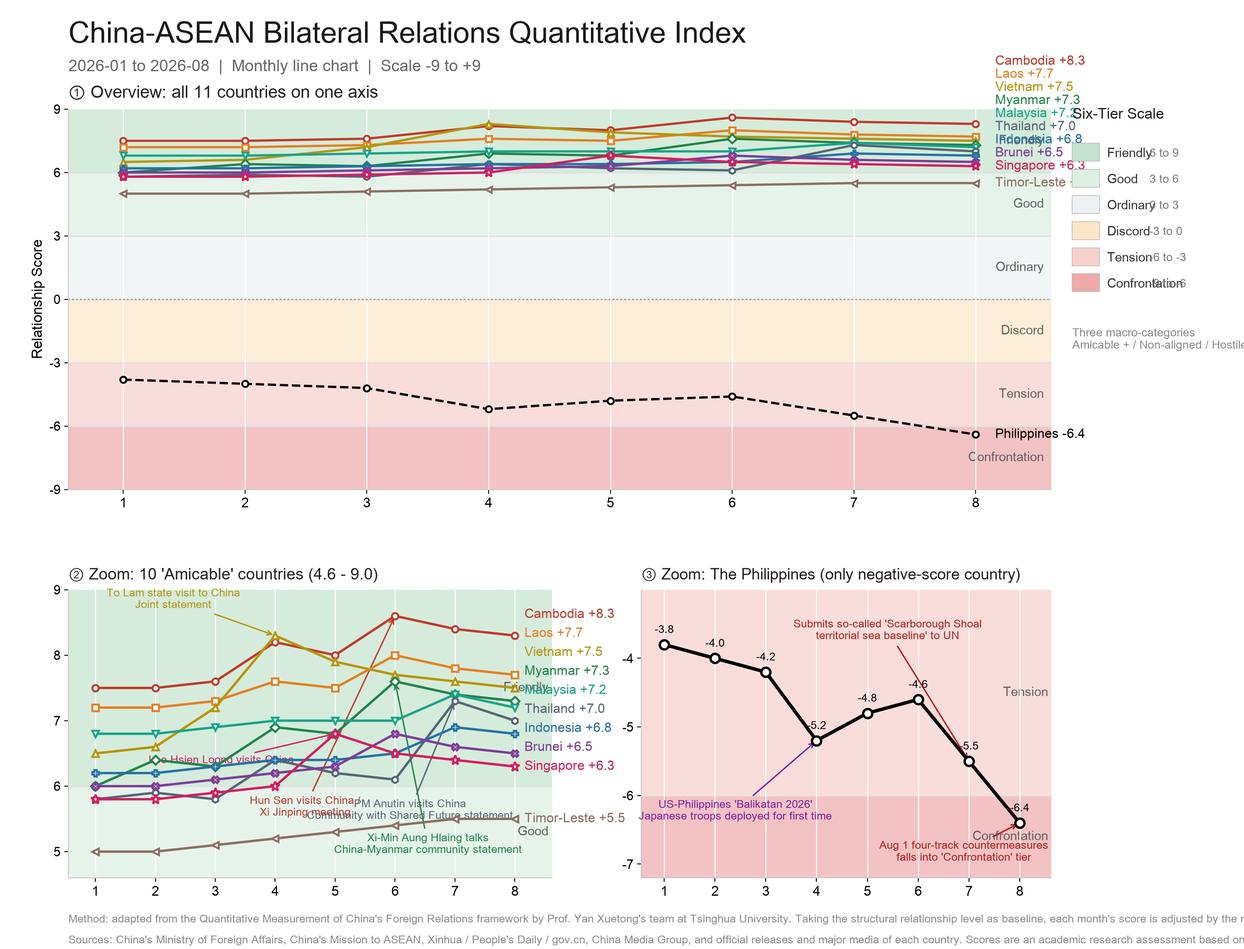
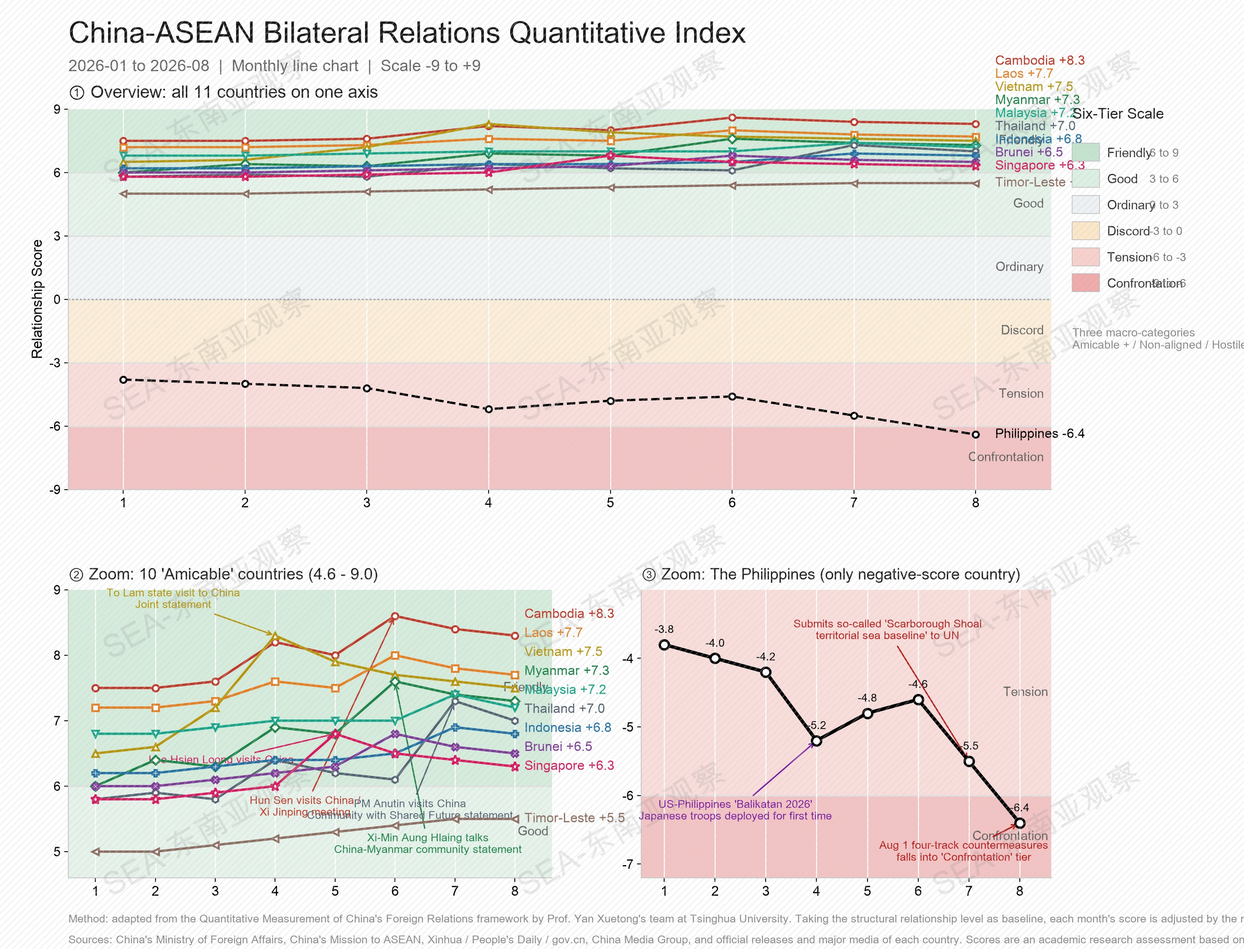
中国—东盟指数图增加斜线纹理水印 SEA-东南亚观察（中英同步）
- plot_china_asean.py / plot_china_asean_en.py 新增 watermark(fig)：
  1) 整图覆盖 facecolor=none + hatch='////' 斜线纹理（edge alpha 0.28）
  2) 3×4 网格平铺旋转 30° 文字 'SEA-东南亚观察'（font 28 bold, alpha 0.18）
- 主图与简版图均调用水印；中、英脚本及输出同步更新

diff --git a/scripts/plot_china_asean.py b/scripts/plot_china_asean.py
@@ -38,6 +38,23 @@ def F(size, weight="normal"):
     fp.set_size(size); fp.set_weight(weight)
     return fp
 
+# ---------- 整图斜线纹理 + 平铺文字水印 ----------
+def watermark(fig):
+    """覆盖整图的斜线纹理水印，中英均显示 SEA-东南亚观察"""
+    txt = "SEA-东南亚观察"
+    fig.patches.append(Rectangle(
+        (0, 0), 1, 1, transform=fig.transFigure,
+        facecolor="none", edgecolor=(0.82, 0.82, 0.82, 0.28),
+        linewidth=0, hatch="////", zorder=100))
+    cols, rows = 3, 4
+    for i in range(rows):
+        for j in range(cols):
+            x = (j + 0.5) / cols
+            y = (i + 0.5) / rows
+            fig.text(x, y, txt, rotation=30, ha="center", va="center",
+                     fontproperties=F(28, "bold"),
+                     color=(0.55, 0.55, 0.55, 0.18), zorder=101)
+
 # ---------- 数据（支持 argv[1] 指定滚动数据集路径）----------
 import sys
 _JSON = sys.argv[1] if len(sys.argv) > 1 else os.path.join(BASE, "data", "china_asean_scores_2026.json")
@@ -217,6 +234,7 @@ fig.text(.055, .006,
          "资料来源：中国外交部、中国常驻东盟使团、新华社／人民日报／中国政府网、中央广播电视总台，及各国官方通稿与主流媒体。分值为基于公开信息的学术性研究判断，非官方数据。",
          fontproperties=F(9.6), color="#8a8a8a")
 
+watermark(fig)
 p1 = os.path.join(OUT, f"china-asean-relations-{_last}.jpg")
 fig.savefig(p1, format="jpg", dpi=200, facecolor="white", pil_kwargs={"quality": 94})
 print("saved", p1)
@@ -237,6 +255,8 @@ fig2.text(.062, .035,
           "方法：参照阎学通团队《中外关系定量衡量》体系，按公开外交事件性质／层级／领域加权月度赋分。"
           "来源：中国外交部、常驻东盟使团、新华社、人民日报、中国政府网、总台及各国官方通稿。分值为研究判断，非官方数据。",
           fontproperties=F(10), color="#8a8a8a")
+
+watermark(fig2)
 p2 = os.path.join(OUT, f"china-asean-relations-{_last}-simple.jpg")
 fig2.savefig(p2, format="jpg", dpi=200, facecolor="white", pil_kwargs={"quality": 94})
 print("saved", p2)

diff --git a/scripts/plot_china_asean_en.py b/scripts/plot_china_asean_en.py
@@ -37,6 +37,23 @@ def F(size, weight="normal"):
     fp.set_size(size); fp.set_weight(weight)
     return fp
 
+# ---------- full-figure diagonal-stripe watermark + tiled text ----------
+def watermark(fig):
+    """Diagonal stripe watermark with SEA-东南亚观察 text, used on both CN and EN charts."""
+    txt = "SEA-东南亚观察"
+    fig.patches.append(Rectangle(
+        (0, 0), 1, 1, transform=fig.transFigure,
+        facecolor="none", edgecolor=(0.82, 0.82, 0.82, 0.28),
+        linewidth=0, hatch="////", zorder=100))
+    cols, rows = 3, 4
+    for i in range(rows):
+        for j in range(cols):
+            x = (j + 0.5) / cols
+            y = (i + 0.5) / rows
+            fig.text(x, y, txt, rotation=30, ha="center", va="center",
+                     fontproperties=F(28, "bold"),
+                     color=(0.55, 0.55, 0.55, 0.18), zorder=101)
+
 # ---------- data (supports argv[1] for rolling dataset path) ----------
 import sys
 _JSON = sys.argv[1] if len(sys.argv) > 1 else os.path.join(BASE, "data", "china_asean_scores_2026.json")
@@ -218,6 +235,7 @@ fig.text(.055, .006,
          "Scores are an academic research assessment based on public information, not official data.",
          fontproperties=F(9.6), color="#8a8a8a")
 
+watermark(fig)
 p1 = os.path.join(OUT, f"china-asean-relations-{_last}-en.jpg")
 fig.savefig(p1, format="jpg", dpi=200, facecolor="white", pil_kwargs={"quality": 94})
 print("saved", p1)
@@ -238,6 +256,8 @@ fig2.text(.062, .035,
           "Method: adapted from Prof. Yan Xuetong's team's Quantitative Measurement of China's Foreign Relations; weighted monthly scoring by nature / level / domain of public diplomatic events. "
           "Sources: MFA China, Mission to ASEAN, Xinhua, People's Daily, gov.cn, CMG, and each country's official releases. Scores are a research assessment, not official data.",
           fontproperties=F(10), color="#8a8a8a")
+
+watermark(fig2)
 p2 = os.path.join(OUT, f"china-asean-relations-{_last}-en-simple.jpg")
 fig2.savefig(p2, format="jpg", dpi=200, facecolor="white", pil_kwargs={"quality": 94})
 print("saved", p2)
